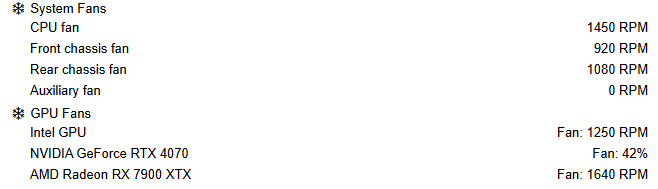
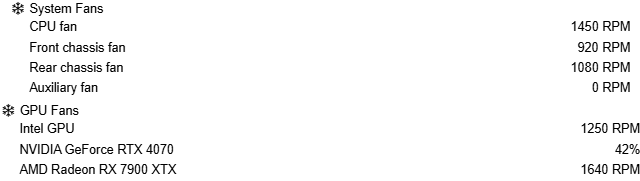
up

diff --git a/build/test/amd-gui.test.js b/build/test/amd-gui.test.js
@@ -66,6 +66,26 @@ test('system fans use name/value table rows, encode labels and retain optional z
     assert.equal((renderer(payload).match(/<tr>/g) || []).length, 1);
 });
 
+test('GPU fan values omit redundant Fan prefix and preserve units and zero', () => {
+    const start = source.indexOf("itemId: 'gpuFans'");
+    const end = source.indexOf("itemId: 'upsc'", start);
+    const block = source.slice(start, end);
+    const renderer = vm.runInContext(
+        '(' + block.slice(block.indexOf('function(gpuStats)'), block.lastIndexOf('\n        },')).trim().replace(/,$/, '') + ')',
+        context,
+    );
+    const html = renderer({
+        enable_gpu: true, enable_fans: true,
+        Graphics: {
+            AMD: { demo: { name: 'AMD', stats: { fan: { speed: 0, unit: ' RPM' } } } },
+            NVIDIA: { demo: { name: 'NVIDIA', stats: { fan: { speed: 42, unit: '%' } } } },
+        },
+    });
+    assert.ok(html.includes('0 RPM</td>'));
+    assert.ok(html.includes('42%</td>'));
+    assert.ok(!html.includes('Fan:'));
+});
+
 test('AMD discovery and metric selection retain zeroes and omit missing metrics', () => {
     const devices = graphs.devices(info);
     assert.equal(devices.length, 1);
